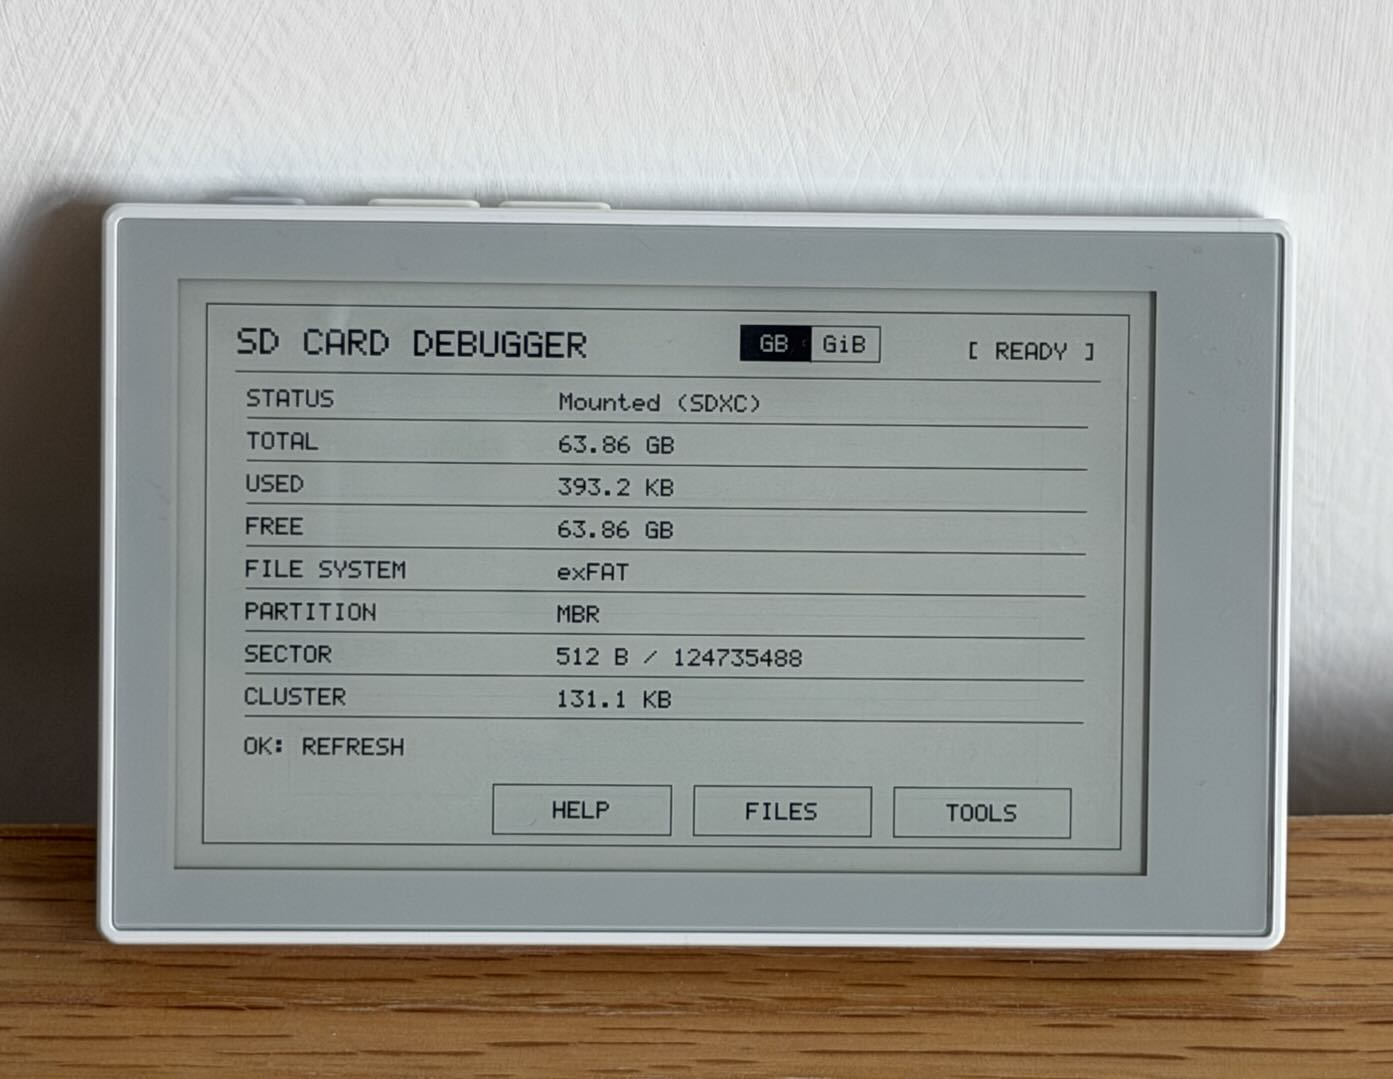
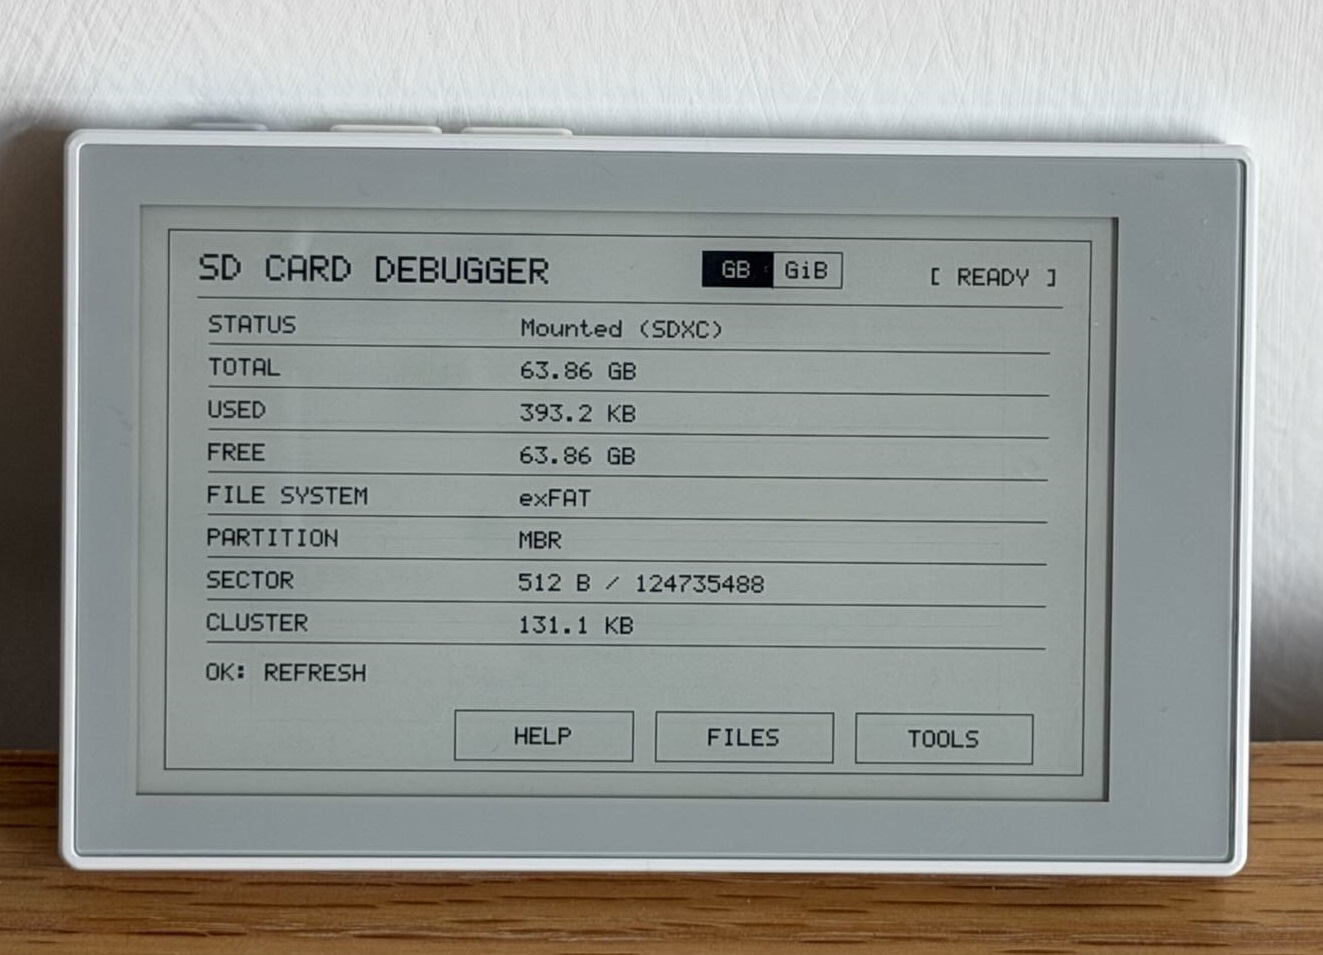
docs: update page images

Changed region(s): [[0.0, 0.0911, 1.0, 1.0], [0.5578, 0.6681, 0.7748, 0.6984], [0.7128, 0.5466, 0.7748, 0.577]]

diff --git a/README-ZH.md b/README-ZH.md
@@ -1,7 +1,7 @@
 # Sticky SD Card Debugger
 
 <div align="center">
-  <img src="page.jpg" alt="reTerminal Sticky SD Card Debugger" width="400">
+  <img src="page.jpg" alt="reTerminal Sticky SD Card Debugger" width="425">
 </div>
 
 这是面向 Seeed Studio reTerminal Sticky 的 ESP-IDF SD 卡信息、文件管理与诊断工具，支持目标容量范围为 4 GB～256 GB 的 FAT32 和 exFAT SD 卡。

diff --git a/README.md b/README.md
@@ -1,7 +1,7 @@
 # Sticky SD Card Debugger
 
 <div align="center">
-  <img src="page.jpg" alt="reTerminal Sticky SD Card Debugger" width="400">
+  <img src="page.jpg" alt="reTerminal Sticky SD Card Debugger" width="425">
 </div>
 
 An ESP-IDF SD card information, file-management, and diagnostic utility for
